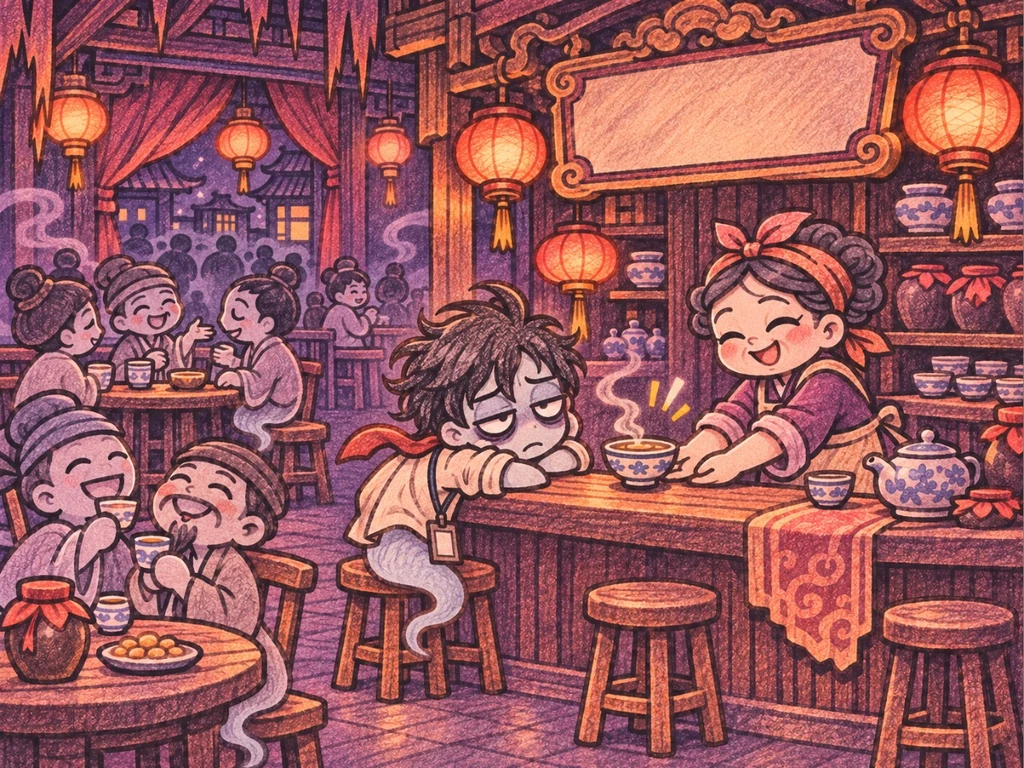
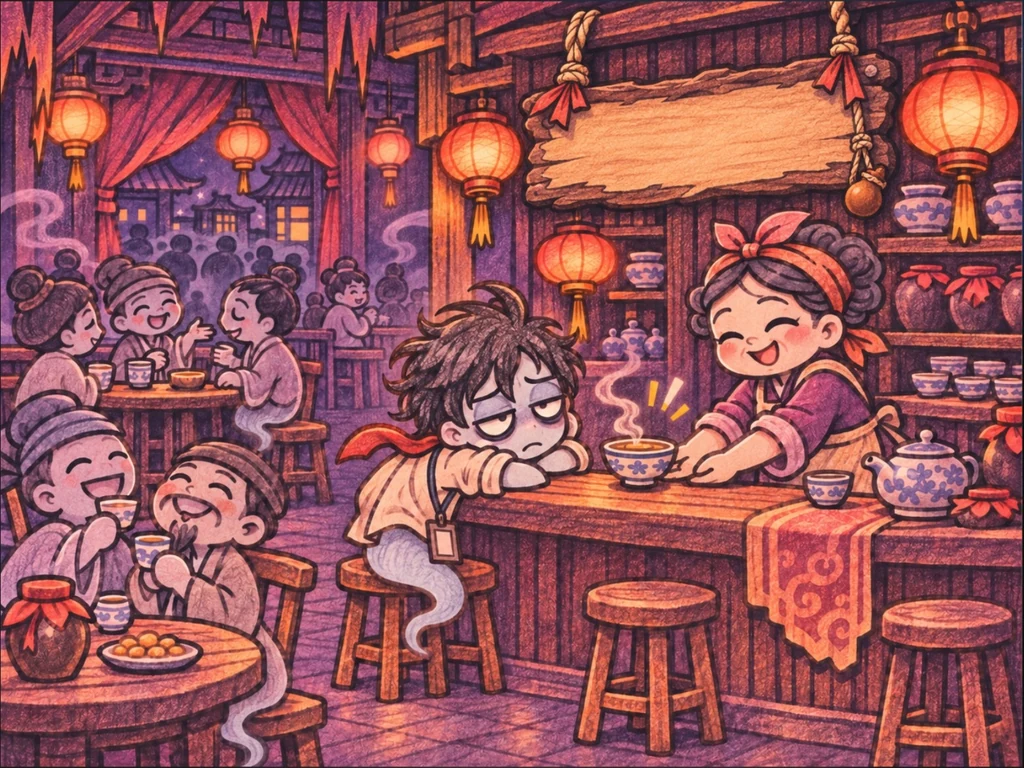
opening WIP：收尾（未跑完測試）——定稿插圖去 rv、未有圖／未選定嘅幕正式版唔顯示插圖（GB_RV_SHOW=1 先出待審）、牌匾文字「加班是福／奈何一杯」男女一致、美術線 plaque.json 匯入、酒館換匾版、浮雕樣式 emboss、cg_review.json
Claude-Session: https://claude.ai/code/session_01UmiVpDHfnmvxquNGxGA5Pc

diff --git a/godot/tools/devkit/plaque_import.py b/godot/tools/devkit/plaque_import.py
@@ -2,19 +2,20 @@
 # 把美術線的 plaque.json（art_pending/cg_m/plaque.json）併入 godot/data/cg_plaque.json
 #   python3 plaque_import.py <godot目錄> <plaque.json>
 # 接受格式：{"cg_office": {"size":[w,h], "quad":[[x,y]*4 左上起順時針], "text":"…", "color":"#…"}} 或同鍵對應陣列（多塊匾）。
-# 鍵可帶 _m 後綴（cg_office_m → cg_office）。只覆蓋座標／顏色／size；text 有給才覆蓋。
-import json, sys
+# 鍵可帶副檔名、_v2、_m（cg_tavern_m_v2.jpg → cg_tavern）。只覆蓋座標／顏色／size；text 有給才覆蓋。
+import json, sys, re
 R, SRC = sys.argv[1], sys.argv[2]
 p = R + "/data/cg_plaque.json"; cur = json.load(open(p)); src = json.load(open(SRC))
 for k, v in src.items():
     if k.startswith("_"): continue
-    key = k[:-2] if k.endswith("_m") else k
+    key = re.sub(r"\.(jpg|png|webp)$", "", k); key = re.sub(r"_v\d+$", "", key); key = key[:-2] if key.endswith("_m") else key
+    if not key.startswith("cg"): key = "cg_" + key
     arr = v if isinstance(v, list) else [v]
     old = cur.get(key, [])
     out = []
     for i, e in enumerate(arr):
         o = dict(old[i]) if i < len(old) else {}
-        for f in ("size", "quad", "color", "vertical"):
+        for f in ("size", "quad", "color", "vertical", "style"):
             if f in e: o[f] = e[f]
         if e.get("text"): o["text"] = e["text"]
         o.setdefault("text", ""); out.append(o)
